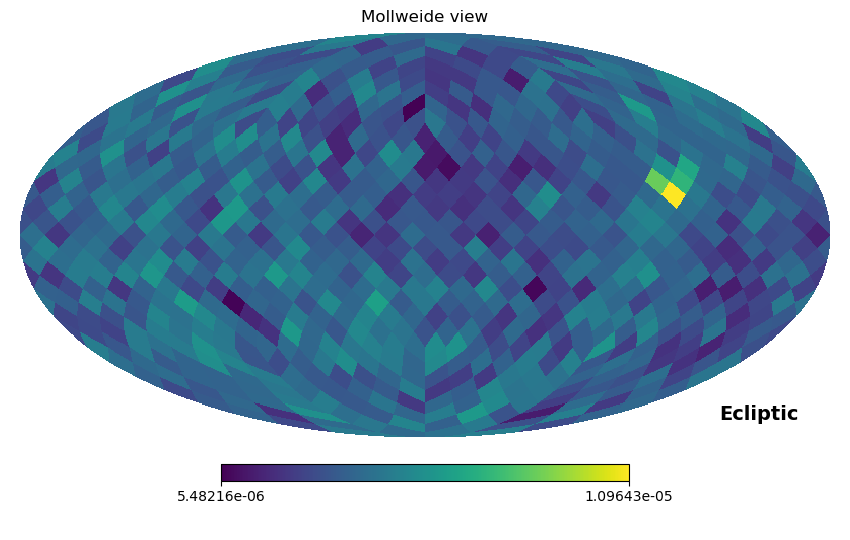
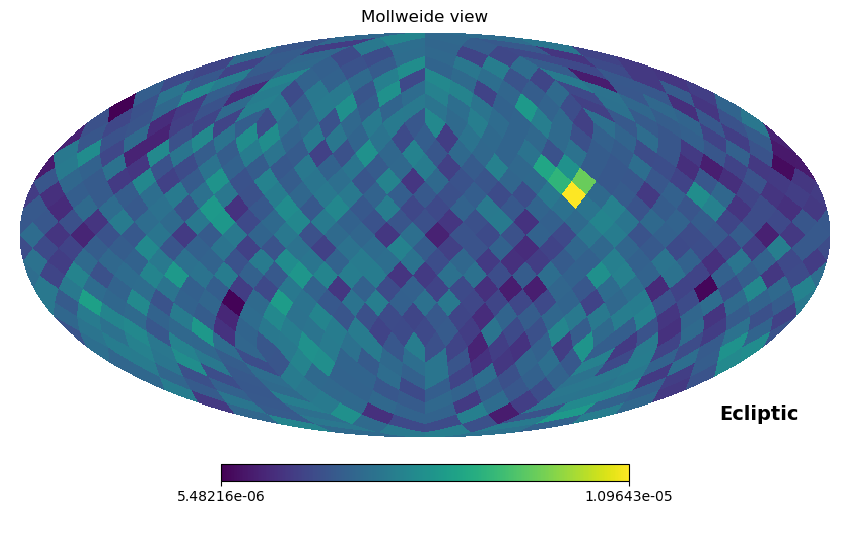
geo flip ....

Changed region(s): [[0.0306, 0.0593, 0.9788, 0.8]]

diff --git a/density_sky.py b/density_sky.py
@@ -9,7 +9,7 @@ from astropy.table import Table
 # read TIC v8 within 100 pc
 dat = pd.read_csv("ticv8_100pc.csv")
 
-dpc = 100
+dpc = 50
 plxcrit=1000.0/dpc
 datlim = dat[dat["plx"]>plxcrit]
 ra = datlim["ra"].values
@@ -25,9 +25,9 @@ ydec=ydat["Decl. (deg)"]
 nside=8
 fac=np.pi/180.0
 print(np.max(dec*fac+np.pi/2.0), np.min(dec*fac+np.pi/2.0))
-pixdat = hp.ang2pix(nside, np.pi/2.0 - dec*fac,ra*fac+np.pi)
+pixdat = hp.ang2pix(nside, np.pi/2.0 - dec*fac,ra*fac)
 density = np.bincount(pixdat)/np.sum(ra)
-hp.visufunc.mollview(density, coord="E", min=np.min(density),max=np.min(density)*2)
+hp.visufunc.mollview(density, coord="E", min=np.min(density),max=np.min(density)*2, flip="geo")
 
 plt.savefig("density"+str(dpc)+"pc.png")
 plt.show()
